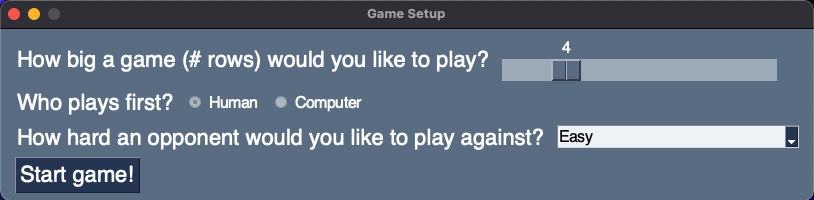
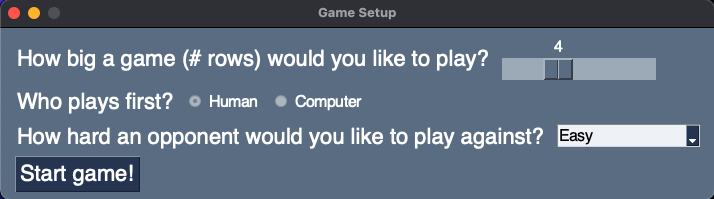
Make canvas smaller, decrease max game from 8 to 6, and update readme

diff --git a/matchsticks/game_graphics/main_window.py b/matchsticks/game_graphics/main_window.py
@@ -13,8 +13,8 @@ from matchsticks.utils import BackButtonException, ClosedWindowException
 def make_intro_window(last_settings: Optional[dict] = None):
   if last_settings is None:
     intro_layout = [[sg.Text("How big a game (# rows) would you like to play?", font=("Helvetica", 22)),
-                     sg.Slider(key='num_layers', range=(3, 8), default_value=4, orientation='h',
-                               font=('Helvetica', 16), size=(25, 22))],
+                     sg.Slider(key='num_layers', range=(3, 6), default_value=4, orientation='h',
+                               font=('Helvetica', 16), size=(14, 22))],
                     [sg.Text("Who plays first?", font=('Helvetica', 22)),
                      sg.Radio(key='human_first', text='Human', group_id="RADIO1", default=True, font=('Helvetica', 16)),
                      sg.Radio(text='Computer', group_id="RADIO1", default=False, font=('Helvetica', 16))],
@@ -22,14 +22,14 @@ def make_intro_window(last_settings: Optional[dict] = None):
                      sg.InputCombo(key='computer_player',
                                    values=('Plays randomly', 'Easy', 'Medium', 'Hard', 'Perfect'),
                                    default_value='Easy',
-                                   font=('Helvetica', 16), size=(25, 22))],
+                                   font=('Helvetica', 16), size=(14, 22))],
                     # [sg.Text(f'Your win count against this difficulty: {5}', font=('Helvetica', 16),
                     #          justification='right')],  # NOTE: this hasn't been set up yet
                     [sg.Button('Start game!', font=('Helvetica', 22))]]
   else:
     intro_layout = [[sg.Text("How big a game (# rows) would you like to play?", font=("Helvetica", 22)),
-                     sg.Slider(key='num_layers', range=(3, 8), default_value=last_settings['num_layers'],
-                               orientation='h', font=('Helvetica', 16), size=(25, 22))],
+                     sg.Slider(key='num_layers', range=(3, 6), default_value=last_settings['num_layers'],
+                               orientation='h', font=('Helvetica', 16), size=(14, 22))],
                     [sg.Text("Who plays first?", font=('Helvetica', 22)),
                      sg.Radio(key='human_first', text='Human', group_id="RADIO1", default=last_settings['human_first'],
                               font=('Helvetica', 16)),
@@ -39,7 +39,7 @@ def make_intro_window(last_settings: Optional[dict] = None):
                      sg.InputCombo(key='computer_player',
                                    values=('Plays randomly', 'Easy', 'Medium', 'Hard', 'Perfect'),
                                    default_value=last_settings['computer_player'],
-                                   font=('Helvetica', 16), size=(25, 22))],
+                                   font=('Helvetica', 16), size=(14, 22))],
                     # [sg.Text(f'Your win count against this difficulty: {5}', font=('Helvetica', 16),
                     #          justification='right')],  # NOTE: this hasn't been set up yet
                     [sg.Button('Start game!', font=('Helvetica', 22))]]
@@ -48,8 +48,8 @@ def make_intro_window(last_settings: Optional[dict] = None):
 
 
 def make_playing_window():
-  graph = sg.Graph(canvas_size=(500, 500), key='graph',
-                   graph_bottom_left=(0, 500), graph_top_right=(500, 0),
+  graph = sg.Graph(canvas_size=(300, 300), key='graph',
+                   graph_bottom_left=(0, 300), graph_top_right=(300, 0),
                    enable_events=True,  # mouse click events
                    background_color='lightblue',
                    drag_submits=True)
